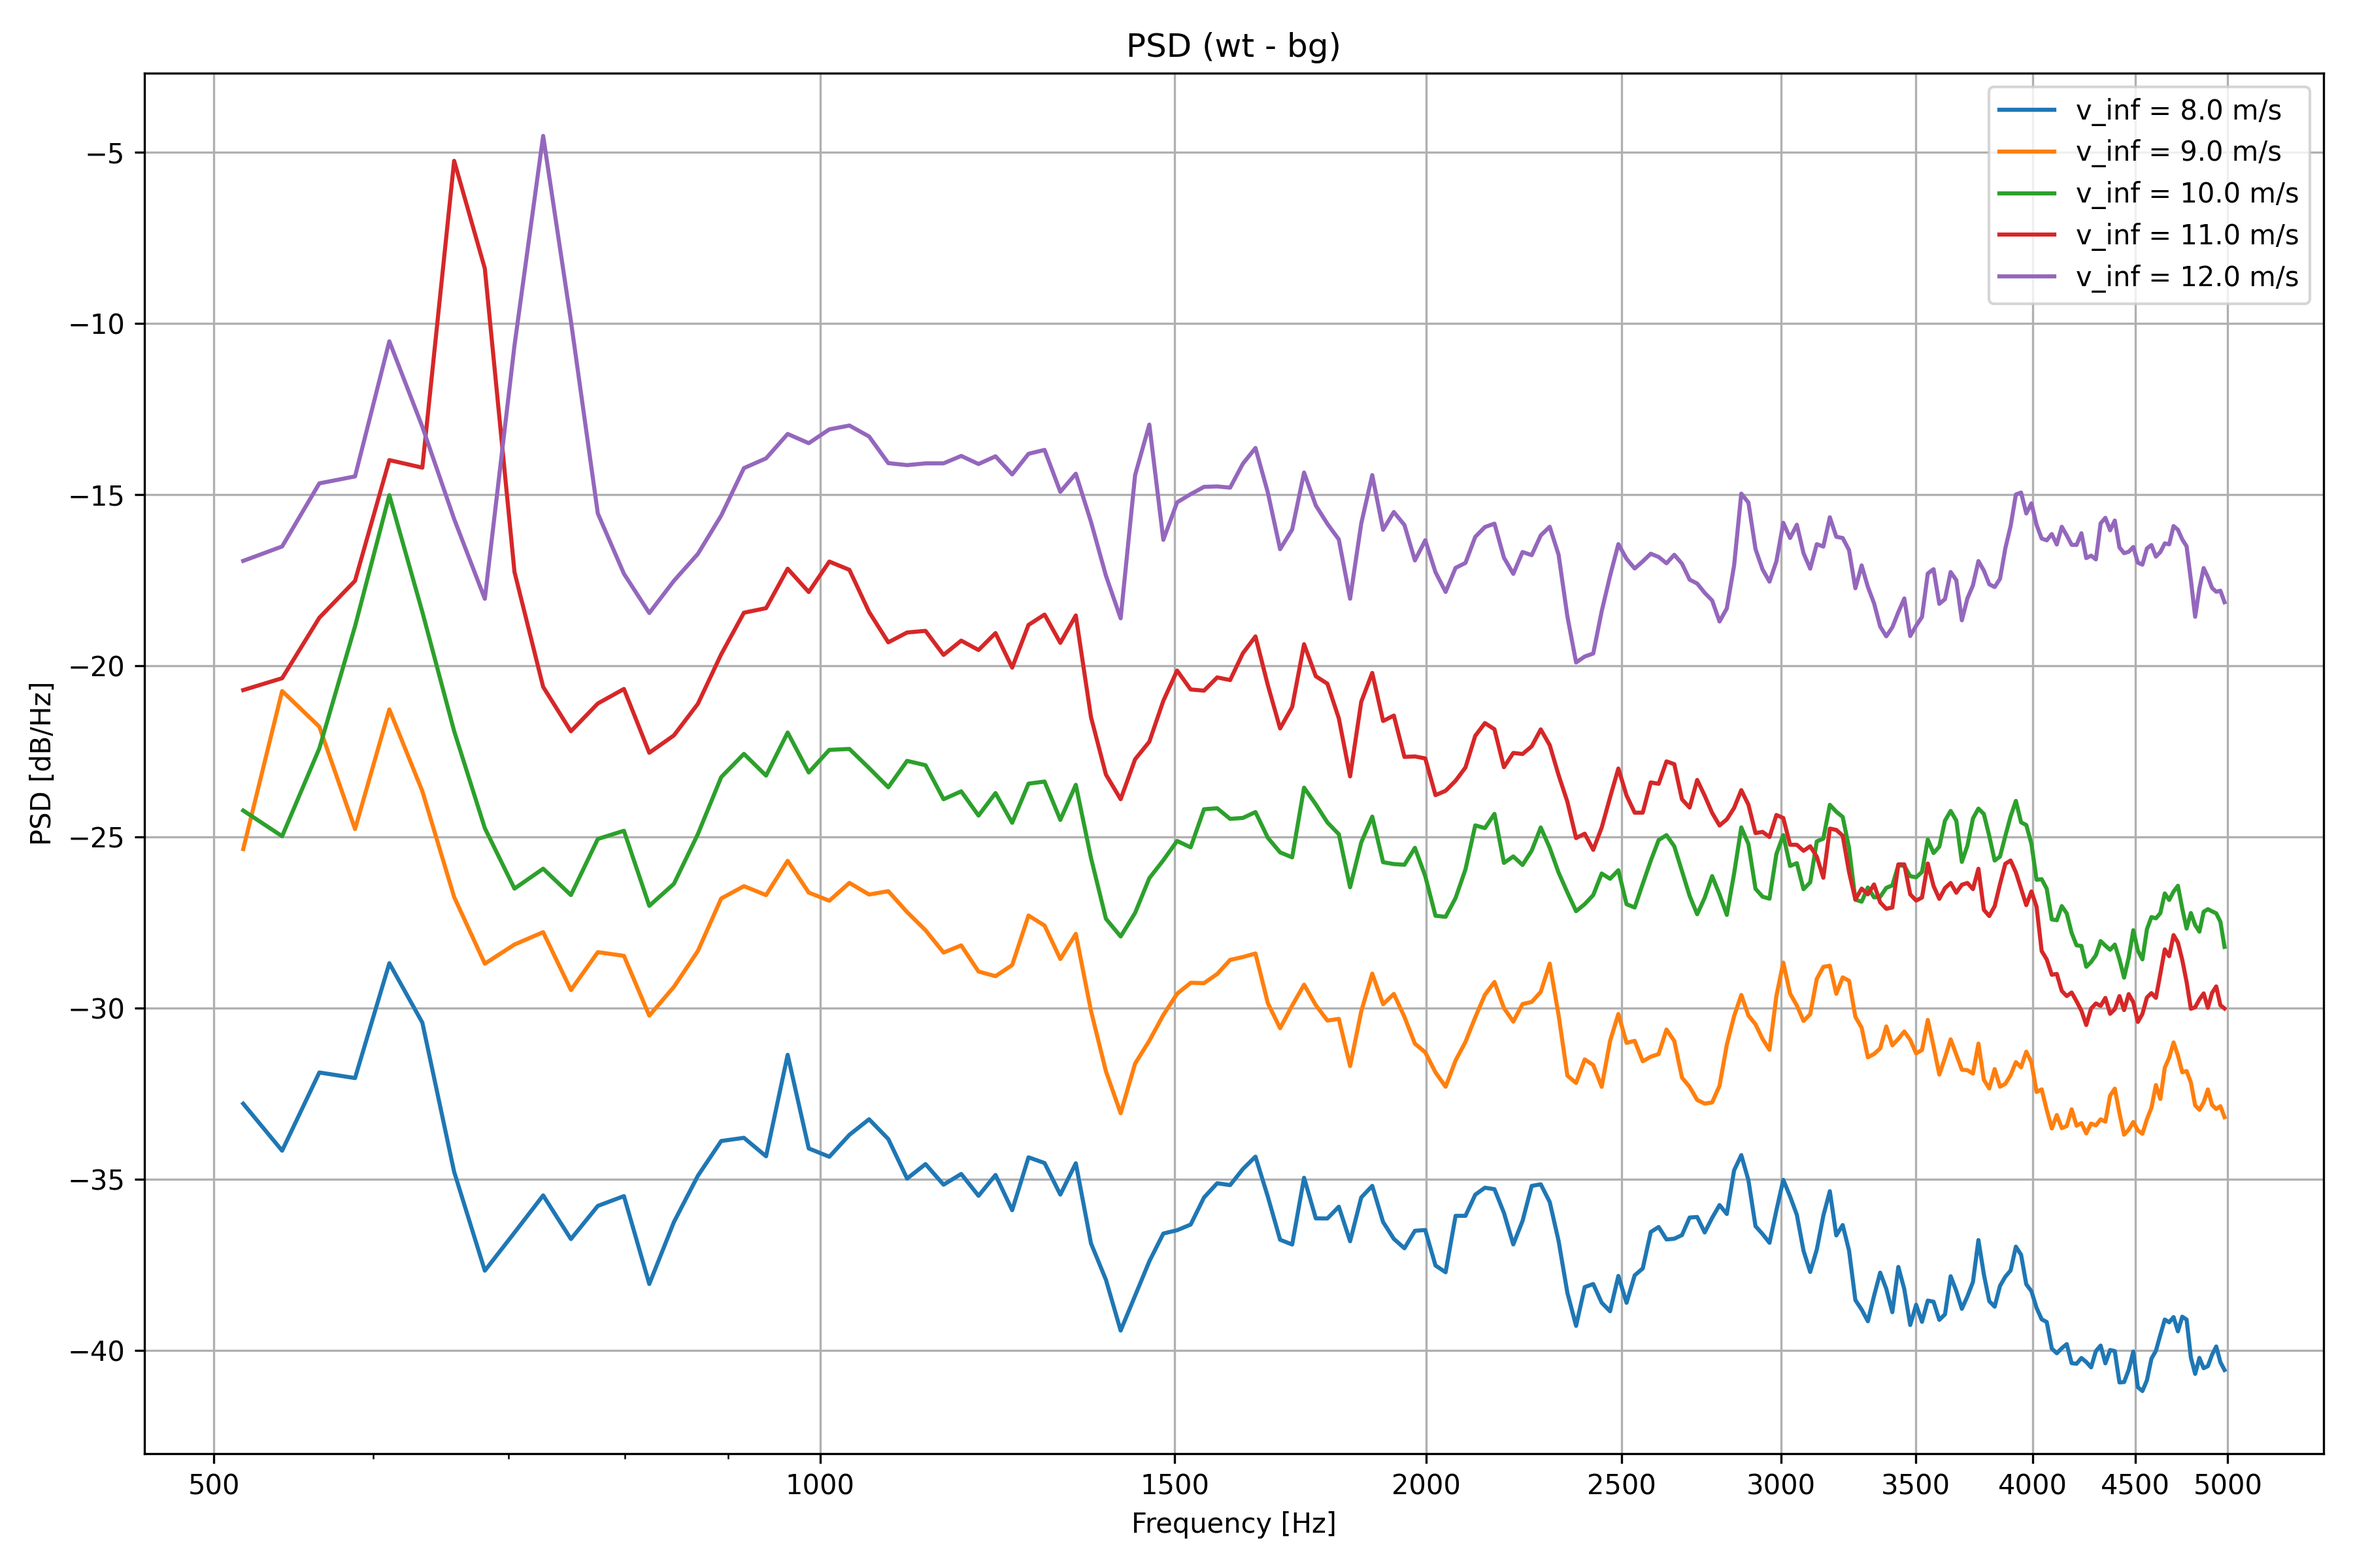
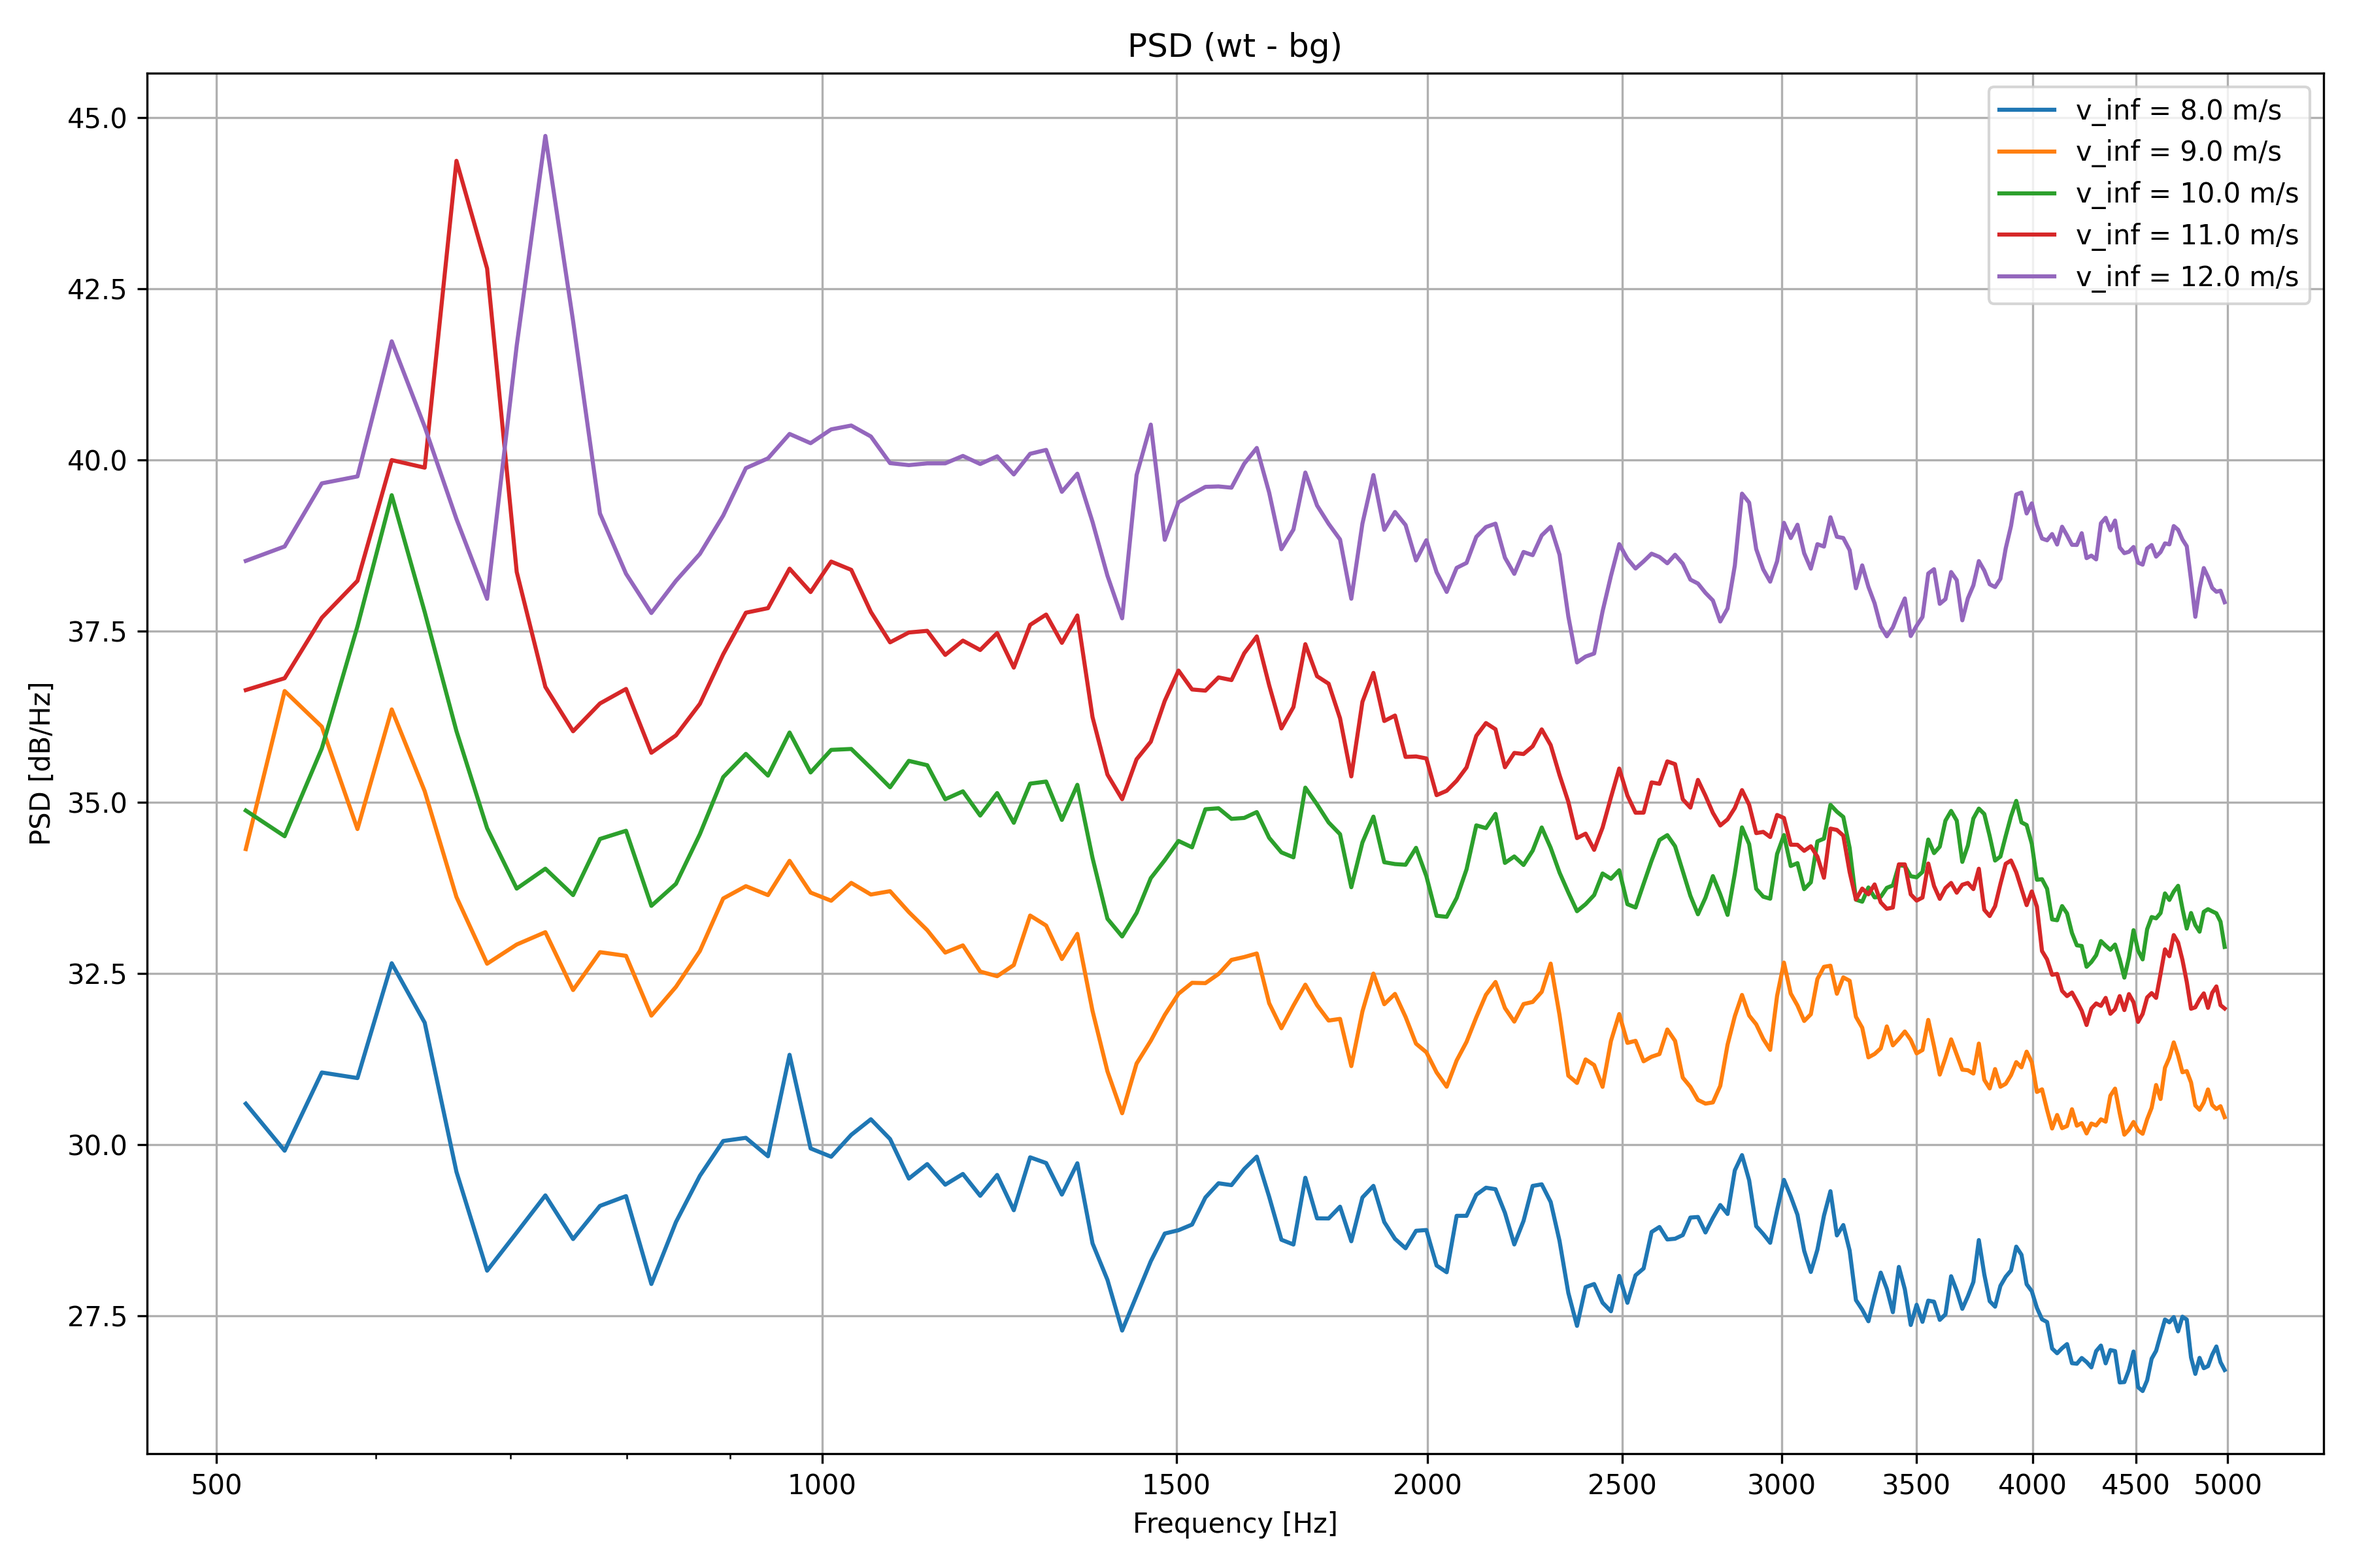
LETS FUCCCCKKKKIIINNNNNNGGGGGG GGGGGGGGGGGGGGGGGGGGGGGGGGGGGGGGGGGGGGGGGGGGOOOOOOOOOOOOOOOOOOOOOOOOOOOOOOOOOOOOOOOOOOOOO

diff --git a/analysis.py b/analysis.py
@@ -120,8 +120,8 @@ for df_bg, df_wt, v_inf in zip(df_bg_list, df_wt_list, v_inf_list):
     df_bg_fft_list.append(df_bg_fft)
     df_wt_fft_list.append(df_wt_fft)
 
-freq_res = df_bg_fft_list[0]['freq'][1] - df_bg_fft_list[0]['freq'][0]
-print(f'[*] Frequency resolution: {freq_res} Hz')
+freq_res_fft = df_bg_fft_list[0]['freq'][1] - df_bg_fft_list[0]['freq'][0]
+print(f'[*] Frequency resolution: {freq_res_fft} Hz')
 
 # Plot all FFT results in df_bg_fft_list and df_wt_fft_list
 print('[*] Plotting results...')
@@ -225,14 +225,18 @@ for df_bg_no_hanning, df_wt_no_hanning, v_inf in zip(df_bg_no_hanning_list, df_w
     df_bg_welch_psd_db = df_bg_welch_psd.copy()
     df_wt_welch_psd_db = df_wt_welch_psd.copy()
     df_wt_bg_welch_psd_db = df_wt_bg_welch_psd.copy()
-    df_bg_welch_psd_db['psd'] = df_bg_welch_psd_db['psd'].apply(lambda x: 10 * np.log10(x ** 2 / (p_ref ** 2)))
-    df_wt_welch_psd_db['psd'] = df_wt_welch_psd_db['psd'].apply(lambda x: 10 * np.log10(x ** 2/ (p_ref ** 2)))
-    df_wt_bg_welch_psd_db['psd'] = df_wt_bg_welch_psd_db['psd'].apply(lambda x: 10 * np.log10(x ** 2 / (p_ref ** 2)))
+    df_bg_welch_psd_db['psd'] = df_bg_welch_psd_db['psd'].apply(lambda x: 10 * np.log10(x / (p_ref ** 2)))
+    df_wt_welch_psd_db['psd'] = df_wt_welch_psd_db['psd'].apply(lambda x: 10 * np.log10(x / (p_ref ** 2)))
+    df_wt_bg_welch_psd_db['psd'] = df_wt_bg_welch_psd_db['psd'].apply(lambda x: 10 * np.log10(x / (p_ref ** 2)))
 
     # Remove frequencies outside of range
     df_bg_welch_psd_db = df_bg_welch_psd_db[(df_bg_welch_psd_db['freq'] >= f_lower) & (df_bg_welch_psd_db['freq'] <= f_upper)]
     df_wt_welch_psd_db = df_wt_welch_psd_db[(df_wt_welch_psd_db['freq'] >= f_lower) & (df_wt_welch_psd_db['freq'] <= f_upper)]
     df_wt_bg_welch_psd_db = df_wt_bg_welch_psd_db[(df_wt_bg_welch_psd_db['freq'] >= f_lower) & (df_wt_bg_welch_psd_db['freq'] <= f_upper)]
+
+    # Reset index
+    df_bg_welch_psd_db = df_bg_welch_psd_db.reset_index(drop=True)
+    df_wt_welch_psd_db = df_wt_welch_psd_db.reset_index(drop=True)
 
     # Append to lists
     df_bg_welch_psd_list.append(df_bg_welch_psd)
@@ -242,6 +246,8 @@ for df_bg_no_hanning, df_wt_no_hanning, v_inf in zip(df_bg_no_hanning_list, df_w
     df_wt_bg_welch_psd_list.append(df_wt_bg_welch_psd)
     df_wt_bg_welch_psd_db_list.append(df_wt_bg_welch_psd_db)
 
+freq_res_psd = df_bg_welch_psd_db['freq'][1] - df_bg_welch_psd_db['freq'][0]
+print(f'[*] Frequency resolution: {freq_res_psd} Hz')
 
 # Plot results
 print('[*] Plotting results...')
@@ -303,7 +309,7 @@ for df_bg_welch_psd, df_wt_welch_psd, df_wt_bg_welch_psd, v_inf in zip(df_bg_wel
         df_wt_spl = df_wt_spl.append({'freq': c, 'spl': sum_wt[0] * freq_step}, ignore_index=True)
         df_wt_bg_spl = df_wt_bg_spl.append({'freq': c, 'spl': sum_wt_bg[0] * freq_step}, ignore_index=True)
 
-    # Convert freq column to dB
+    # Convert spl column to dB
     df_bg_spl['spl'] = df_bg_spl['spl'].apply(lambda x: 10 * np.log10(x / (p_ref ** 2)))
     df_wt_spl['spl'] = df_wt_spl['spl'].apply(lambda x: 10 * np.log10(x / (p_ref ** 2)))
     df_wt_bg_spl['spl'] = df_wt_bg_spl['spl'].apply(lambda x: 10 * np.log10(x / (p_ref ** 2)))
@@ -384,7 +390,7 @@ for df_bg_welch_psd, df_wt_welch_psd, v_inf in zip(df_bg_welch_psd_list, df_wt_w
         df_bg_spl = df_bg_spl.append({'freq': c, 'spl': sum_bg[0] * (u - l)}, ignore_index=True)
         df_wt_spl = df_wt_spl.append({'freq': c, 'spl': sum_wt[0] * (u - l)}, ignore_index=True)
 
-    # Convert freq column to dB
+    # Convert spl column to dB
     df_bg_spl['spl'] = df_bg_spl['spl'].apply(lambda x: 10 * np.log10(x / (p_ref ** 2)))
     df_wt_spl['spl'] = df_wt_spl['spl'].apply(lambda x: 10 * np.log10(x / (p_ref ** 2)))
 
@@ -420,12 +426,12 @@ OSPL_wt_list = []
 
 for df_bg_welch_psd, df_wt_welch_psd, v_inf in zip(df_bg_welch_psd_list, df_wt_welch_psd_list, v_inf_list):
     # Sum PSD in band f_lower to f_upper
-    sum_bg = df_bg_welch_psd[(df_bg_welch_psd['freq'] >= 1000) & (df_bg_welch_psd['freq'] <= 2000)].sum()
-    sum_wt = df_wt_welch_psd[(df_wt_welch_psd['freq'] >= 1000) & (df_wt_welch_psd['freq'] <= 2000)].sum()
+    sum_bg = df_bg_welch_psd[(df_bg_welch_psd['freq'] >= 800) & (df_bg_welch_psd['freq'] <= 3000)].sum()
+    sum_wt = df_wt_welch_psd[(df_wt_welch_psd['freq'] >= 800) & (df_wt_welch_psd['freq'] <= 3000)].sum()
 
     # Calculate OSPL
-    ospl_bg = 10 * np.log10(sum_bg[0] * freq_res / (p_ref ** 2))
-    ospl_wt = 10 * np.log10(sum_wt[0] * freq_res / (p_ref ** 2))
+    ospl_bg = 10 * np.log10((sum_bg[0] * freq_res_psd) / (p_ref ** 2))
+    ospl_wt = 10 * np.log10((sum_wt[0] * freq_res_psd) / (p_ref ** 2))
 
     # Print results
     print(f'[*] v_inf: {v_inf} m/s')
@@ -436,9 +442,10 @@ for df_bg_welch_psd, df_wt_welch_psd, v_inf in zip(df_bg_welch_psd_list, df_wt_w
     OSPL_bg_list.append(ospl_bg)
     OSPL_wt_list.append(ospl_wt)
 
-# Trendline Alogx + B
-trend_ideal_fn = np.polyfit(np.log(v_inf_list), OSPL_wt_list, 1)
+# Trendline A * log(x) + B
+trend_ideal_fn = np.polyfit(np.log10(v_inf_list), OSPL_wt_list, 1)
 print(f'[*] Trendline: {trend_ideal_fn[0]}*log(x) + {trend_ideal_fn[1]}')
+print(f'[*] R^2: {np.corrcoef(np.log10(v_inf_list), OSPL_wt_list)[0, 1] ** 2}')
 
 # Plot OSPL vs v_inf as scatter plot with line connecting points
 print('[*] Plotting results...')
@@ -448,9 +455,7 @@ sns.scatterplot(x=v_inf_list, y=OSPL_wt_list, ax=ax, color='blue', label='Wind t
 
 # Plot trend line (dB scale)
 x = np.linspace(min(v_inf_list), max(v_inf_list), 100)
-y = trend_ideal_fn[0] * np.log(x) + trend_ideal_fn[1]
-print(x)
-print(y)
+y = trend_ideal_fn[0] * np.log10(x) + trend_ideal_fn[1]
 sns.lineplot(x=x, y=y, ax=ax, color='blue', label=f'{trend_ideal_fn[0]:.2f}*log(x) + {trend_ideal_fn[1]:.2f}')
 
 ax.set_title(f'OSPL ({800} - {3000} Hz)')
